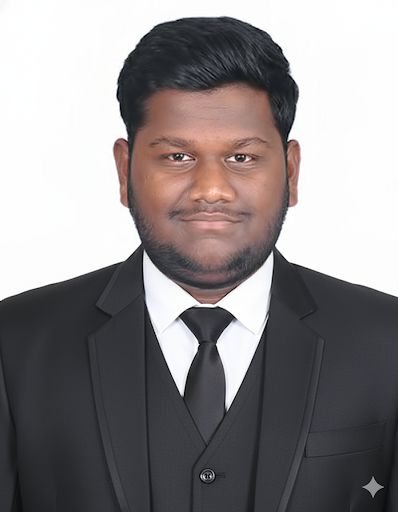
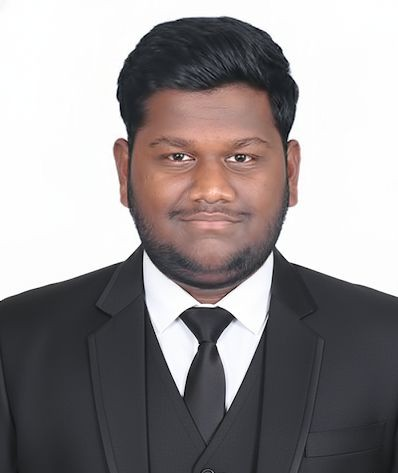
fix(mobile): resolve horizontal overflow, fix mobile nav drawer bleed, restore floating badges, and update uncropped portrait

diff --git a/style.css b/style.css
@@ -53,6 +53,8 @@ html {
   scroll-padding-top: 75px;
   font-size: 16px;
   color-scheme: dark;
+  overflow-x: hidden;
+  max-width: 100vw;
 }
 
 body {
@@ -61,6 +63,8 @@ body {
   color: var(--text-primary);
   line-height: 1.6;
   overflow-x: hidden;
+  max-width: 100vw;
+  width: 100%;
   position: relative;
   min-height: 100vh;
 }
@@ -636,7 +640,7 @@ h1, h2, h3, h4, h5, h6 {
 
 .portrait-image {
   width: 100%;
-  aspect-ratio: 398 / 512;
+  aspect-ratio: 398 / 473;
   height: auto;
   max-height: 47vh;
   object-fit: cover;
@@ -1689,10 +1693,11 @@ footer {
     justify-content: center;
   }
 
-  .credentials-layout {
-    grid-template-columns: 1fr;
-  }
-
+  .systems-grid,
+  .matrix-grid,
+  .credentials-layout,
+  .honors-grid,
+  .leadership-grid,
   .contact-wrapper {
     grid-template-columns: 1fr;
   }
@@ -1700,76 +1705,143 @@ footer {
 
 @media (max-width: 768px) {
   .section {
-    padding: 4.2rem 0;
+    padding: 3.5rem 0;
+  }
+
+  .container {
+    padding: 0 1rem;
+    max-width: 100vw;
+    box-sizing: border-box;
   }
 
   .section-title {
-    font-size: 1.95rem;
+    font-size: 1.75rem;
   }
 
   .hero-title {
-    font-size: 2.2rem;
+    font-size: 1.85rem;
+    line-height: 1.22;
+    word-break: break-word;
+    overflow-wrap: break-word;
   }
 
   .hero-subtitle {
-    font-size: 1.15rem;
+    font-size: 1.05rem;
+    flex-wrap: wrap;
+    justify-content: center;
+    min-height: auto;
+    margin-bottom: 0.8rem;
+  }
+
+  .hero-bio {
+    font-size: 0.88rem;
+    line-height: 1.55;
+    padding: 0 0.5rem;
+    margin-bottom: 1rem;
+  }
+
+  .hero-actions {
+    flex-direction: column;
+    width: 100%;
+    max-width: 320px;
+    gap: 0.75rem;
+    margin-bottom: 1rem;
+  }
+
+  .hero-actions .btn {
+    width: 100%;
   }
 
   .menu-toggle {
     display: block;
   }
 
+  /* Fixed Mobile Navbar Menu Drawer */
   .nav-links {
     position: fixed;
-    top: 60px;
+    top: 58px;
     left: 0;
     right: 0;
     background: rgba(5, 8, 17, 0.98);
     backdrop-filter: blur(25px);
+    -webkit-backdrop-filter: blur(25px);
     flex-direction: column;
     align-items: center;
-    padding: 2rem 0;
-    gap: 1.4rem;
-    border-bottom: 1px solid var(--border-subtle);
+    padding: 0;
+    gap: 1.2rem;
+    border-bottom: 1px solid transparent;
     max-height: 0;
     overflow: hidden;
-    transition: max-height 0.4s ease, padding 0.4s ease;
+    opacity: 0;
+    visibility: hidden;
+    pointer-events: none;
+    transition: max-height 0.35s ease, opacity 0.3s ease, visibility 0.3s ease, padding 0.35s ease;
+    z-index: 1000;
   }
 
   .nav-links.show {
-    max-height: 420px;
-    padding: 2rem 0;
+    max-height: 480px;
+    padding: 1.8rem 0;
+    border-bottom-color: var(--border-subtle);
+    opacity: 1;
+    visibility: visible;
+    pointer-events: auto;
   }
 
   .btn-cv-header {
     display: none;
   }
 
+  /* Mobile Portrait Frame & Floating Badges */
   .portrait-container {
-    max-width: 260px;
+    max-width: 240px;
+    margin: 0 auto 1.2rem;
   }
 
   .portrait-image {
-    max-height: 42vh;
+    aspect-ratio: 398 / 473;
+    height: auto;
+    max-height: 38vh;
+    object-fit: cover;
+    object-position: top center;
   }
 
   .floating-badge {
+    display: flex;
+    padding: 4px 10px;
+    font-size: 0.72rem;
+    gap: 5px;
+    box-shadow: 0 4px 12px rgba(0, 0, 0, 0.55);
+  }
+
+  .badge-top-right {
+    top: -8px;
+    right: 0px;
+  }
+
+  .badge-bottom-left {
+    bottom: -8px;
+    left: 0px;
+  }
+
+  .badge-bottom-right {
     display: none;
   }
 
+  /* Timeline & Cards Fluid Sizing */
   .timeline {
-    padding-left: 2rem;
+    padding-left: 1.8rem;
   }
 
   .timeline-marker {
-    left: -2rem;
-    width: 28px;
-    height: 28px;
-    font-size: 0.75rem;
+    left: -1.8rem;
+    width: 26px;
+    height: 26px;
+    font-size: 0.72rem;
   }
 
   .timeline-content {
-    padding: 1.4rem;
+    padding: 1.25rem 1rem;
   }
 
   .timeline-header {
@@ -1777,14 +1849,42 @@ footer {
     gap: 0.5rem;
   }
 
+  .system-card,
+  .matrix-group,
+  .cred-card,
+  .honor-card,
+  .lead-card,
+  .contact-item,
+  .form-container {
+    padding: 1.25rem 1rem;
+    box-sizing: border-box;
+    width: 100%;
+  }
+
   .hero-kpis {
     flex-direction: column;
-    gap: 0.8rem;
+    gap: 0.75rem;
     width: 100%;
+    max-width: 320px;
     align-items: center;
+    box-sizing: border-box;
   }
 
   .kpi-divider {
     display: none;
+  }
+}
+
+@media (max-width: 480px) {
+  .hero-title {
+    font-size: 1.65rem;
+  }
+
+  .section-title {
+    font-size: 1.6rem;
+  }
+
+  .portrait-container {
+    max-width: 210px;
   }
 }
